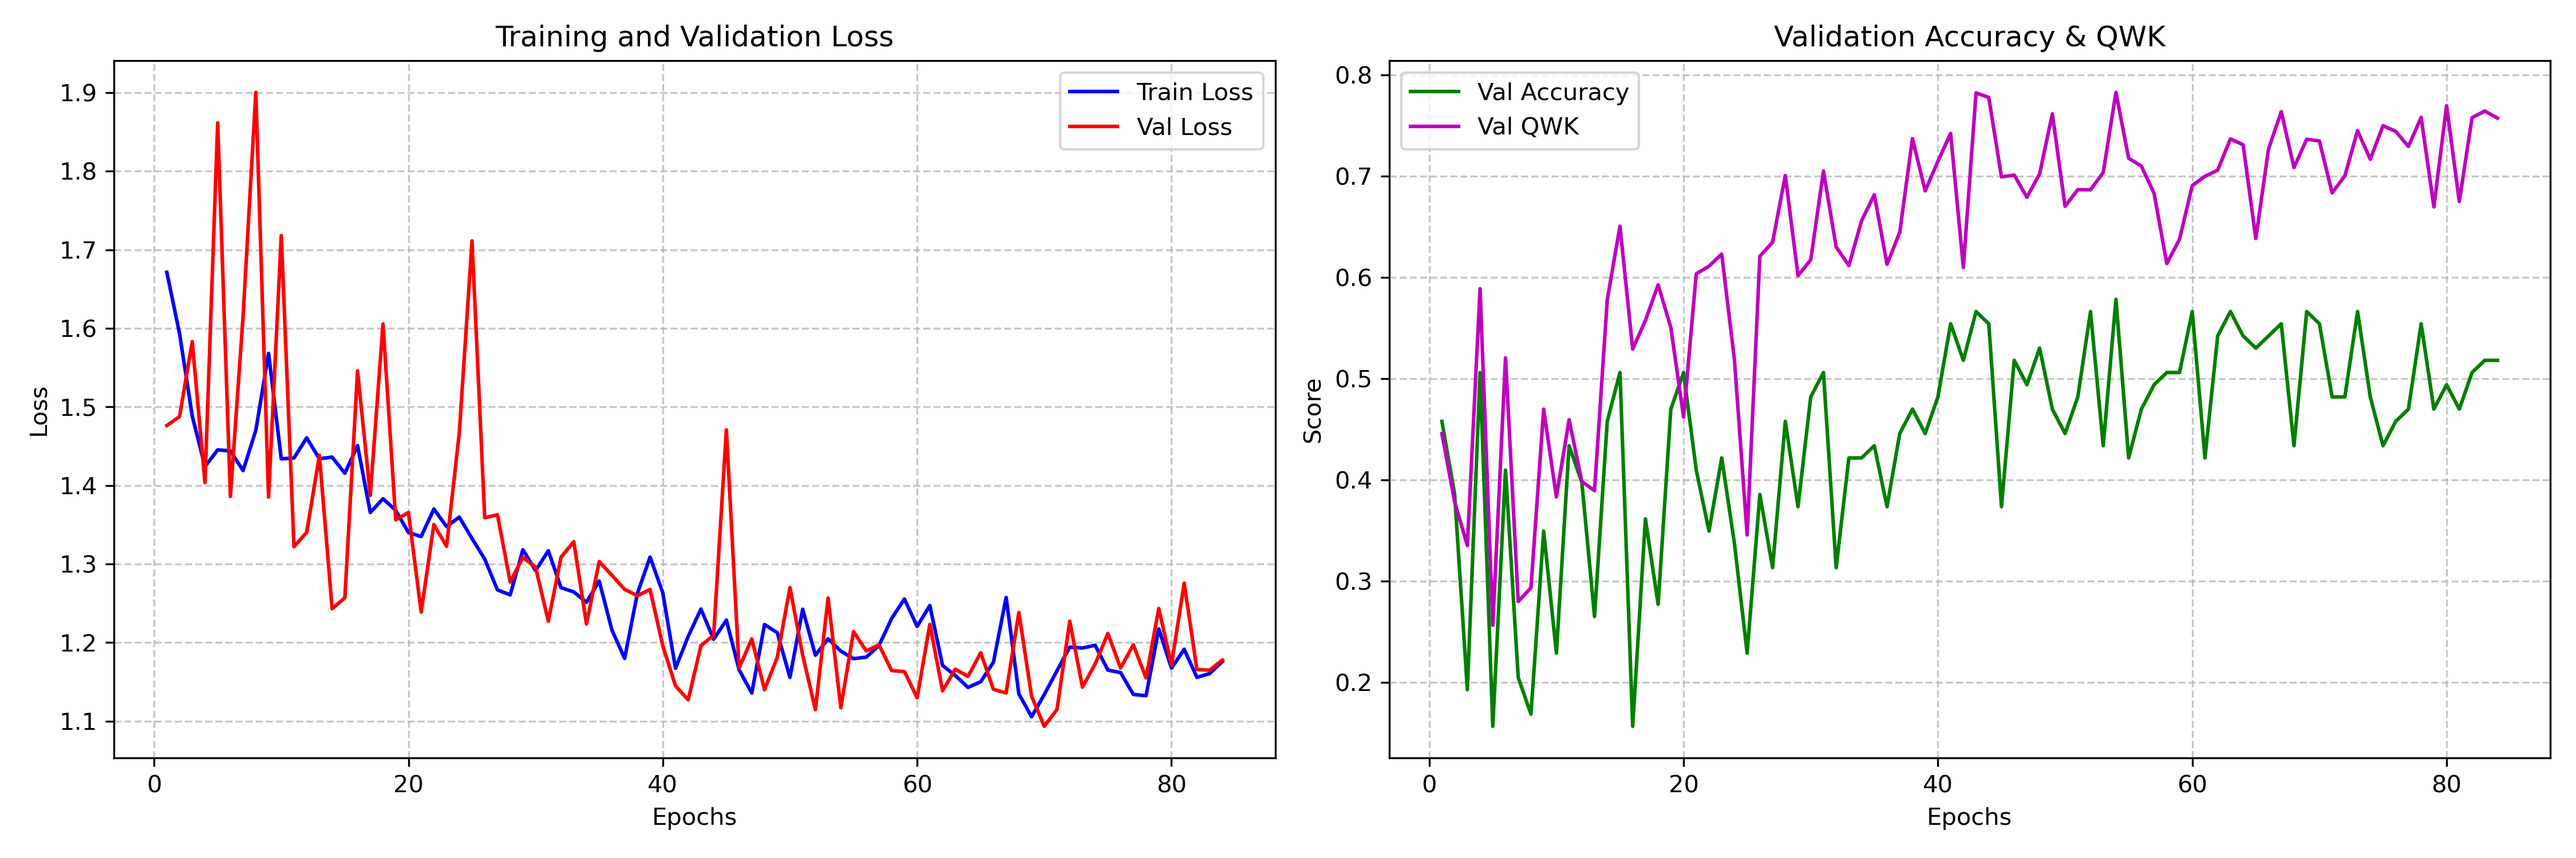
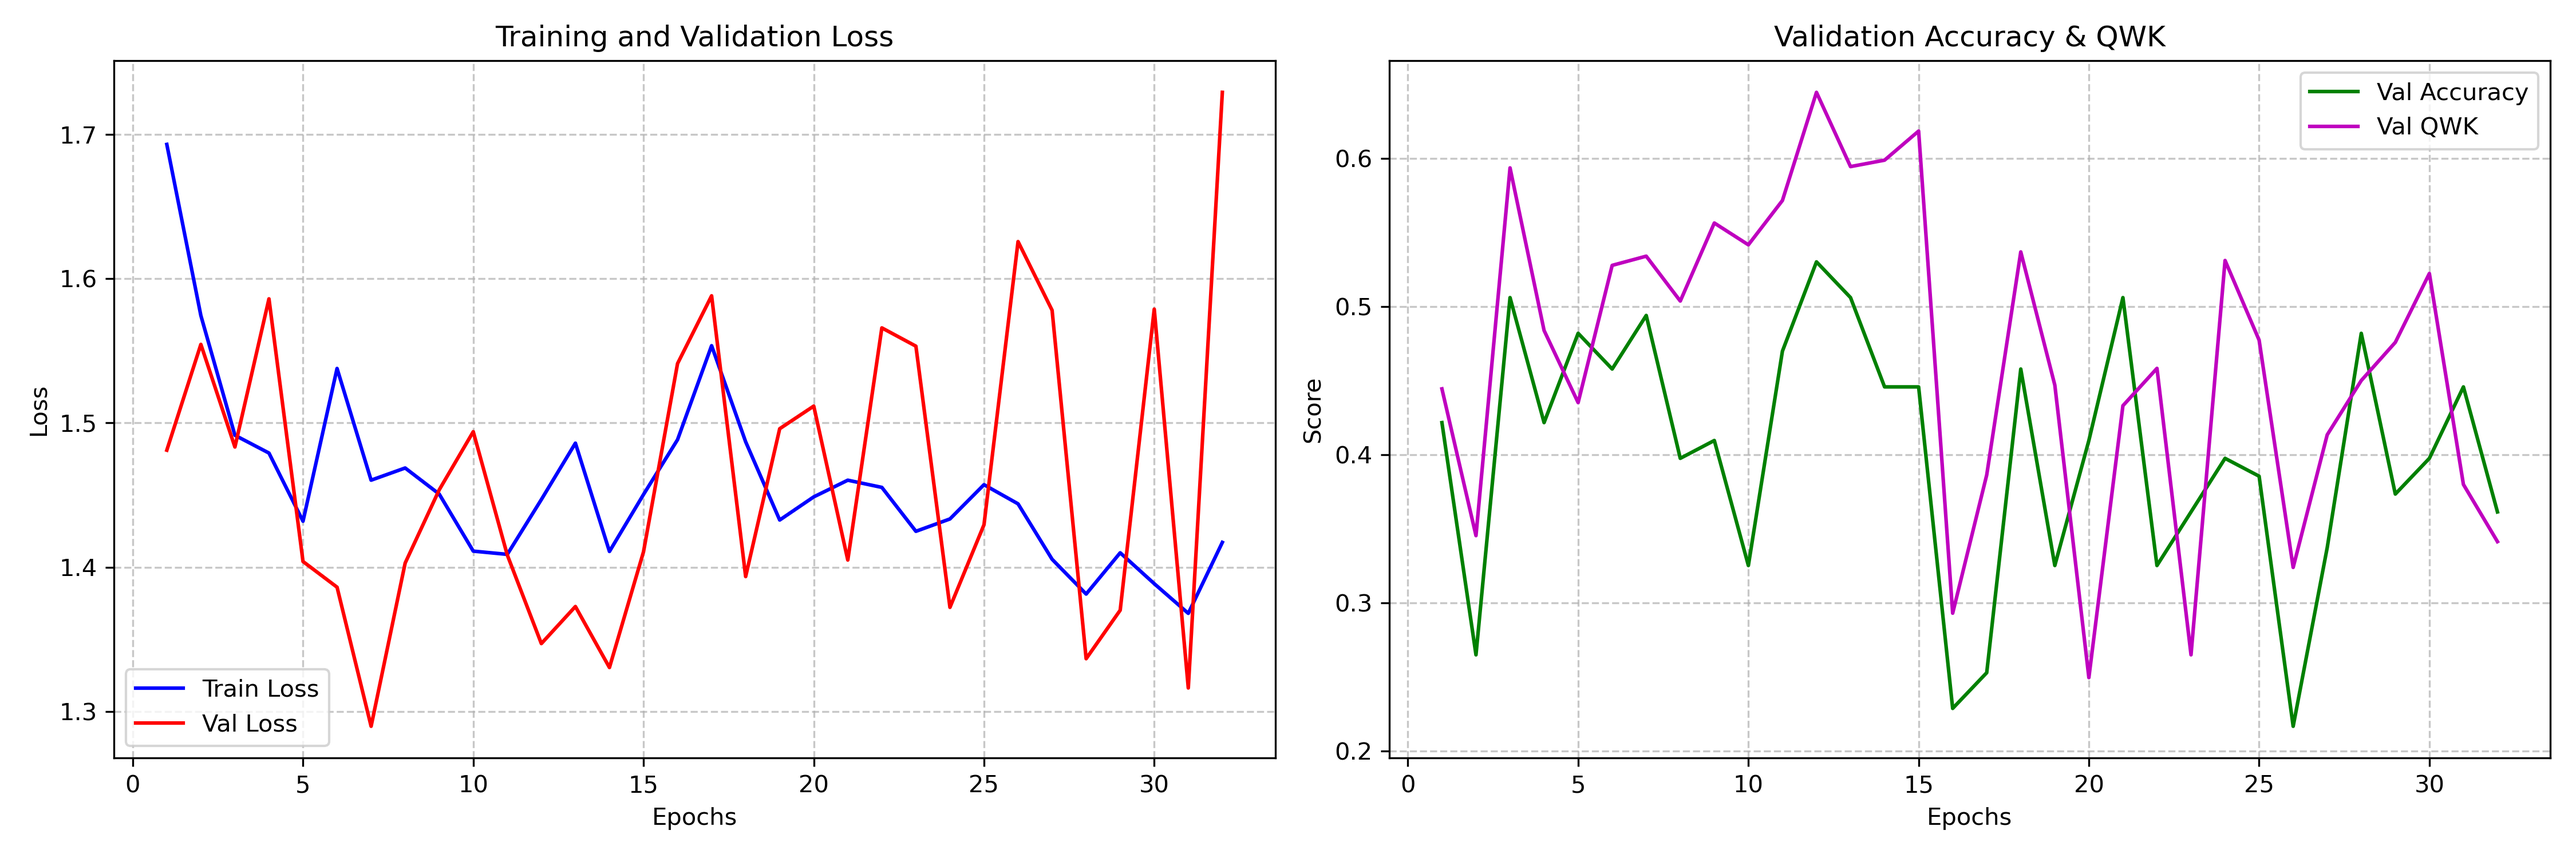
Accuracy: 0.5301 | QWK: 0.6445

diff --git a/classify.py b/classify.py
@@ -20,7 +20,6 @@ import matplotlib.pyplot as plt
 logging.basicConfig(level=logging.INFO, format='%(asctime)s - %(levelname)s - %(message)s')
 logger = logging.getLogger(__name__)
 
-
 def seed_everything(seed=42):
     random.seed(seed)
     os.environ['PYTHONHASHSEED'] = str(seed)
@@ -30,7 +29,6 @@ def seed_everything(seed=42):
     torch.cuda.manual_seed_all(seed)
     torch.backends.cudnn.deterministic = True
     torch.backends.cudnn.benchmark = False
-
 
 # ================= 配置类 =================
 class TrainConfig:
@@ -46,8 +44,7 @@ class TrainConfig:
     lr_backbone = 1e-5
     lr_head = 1e-4
     num_classes = 5
-    patience = 30  # 稍微增加一点耐心
-
+    patience = 20
 
 # ================= 1. 模型架构 =================
 class DeepDRTransformer(nn.Module):
@@ -102,7 +99,6 @@ class DeepDRTransformer(nn.Module):
         fused = torch.cat([x, area_feat], dim=1)
         return self.classifier(fused)
 
-
 # ================= 2. 数据集类 =================
 class DRDataset(Dataset):
     def __init__(self, df, img_dir, mask_dir, transform=None):
@@ -153,8 +149,7 @@ class DRDataset(Dataset):
 
         return img6, mask4, label
 
-
-# ================= 3. 训练与验证核心 =================
+# ================= 3. 训练与验证 =================
 def train_one_epoch(model, loader, optimizer, criterion, scaler, device):
     model.train()
     train_loss = 0
@@ -177,7 +172,6 @@ def train_one_epoch(model, loader, optimizer, criterion, scaler, device):
 
     return train_loss / len(loader)
 
-
 @torch.no_grad()
 def validate_one_epoch(model, loader, criterion, device):
     model.eval()
@@ -199,15 +193,11 @@ def validate_one_epoch(model, loader, criterion, device):
     acc = np.mean(np.array(all_preds) == np.array(all_labels))
     return val_loss / len(loader), acc, qwk
 
-
 # ================= 4. 绘图与评估 =================
 def plot_metrics(cfg, train_losses, val_losses, val_accs, val_qwks):
-    """绘制训练曲线并保存"""
     epochs = range(1, len(train_losses) + 1)
-
     plt.figure(figsize=(15, 5))
 
-    # Loss 曲线
     plt.subplot(1, 2, 1)
     plt.plot(epochs, train_losses, 'b-', label='Train Loss')
     plt.plot(epochs, val_losses, 'r-', label='Val Loss')
@@ -217,7 +207,6 @@ def plot_metrics(cfg, train_losses, val_losses, val_accs, val_qwks):
     plt.legend()
     plt.grid(True, linestyle='--', alpha=0.7)
 
-    # 准确率和 QWK 曲线
     plt.subplot(1, 2, 2)
     plt.plot(epochs, val_accs, 'g-', label='Val Accuracy')
     plt.plot(epochs, val_qwks, 'm-', label='Val QWK')
@@ -232,7 +221,6 @@ def plot_metrics(cfg, train_losses, val_losses, val_accs, val_qwks):
     plt.savefig(save_path, dpi=300)
     plt.close()
     logger.info(f"[*] 训练曲线已保存至: {save_path}")
-
 
 def evaluate_model(cfg, test_loader, model_path):
     logger.info("=" * 50)
@@ -264,7 +252,6 @@ def evaluate_model(cfg, test_loader, model_path):
     logger.info(f"\n混淆矩阵:\n{confusion_matrix(all_labels, all_preds)}")
     logger.info("=" * 50)
 
-
 # ================= 5. 主程序 =================
 def main():
     seed_everything(42)
@@ -277,12 +264,11 @@ def main():
     split = int(0.8 * len(df))
     train_df, val_df = df[:split], df[split:]
 
-    # 稍微调小缩放比例，防止微小病灶被裁掉
+    # 【关键回调】去掉裁剪，只用 Resize 和安全的色彩/翻转增强，保证全局病灶不丢失
     train_tsfm = A.Compose([
-        A.RandomResizedCrop(size=(cfg.img_size, cfg.img_size), scale=(0.9, 1.0)),
+        A.Resize(height=cfg.img_size, width=cfg.img_size),
         A.HorizontalFlip(p=0.5),
         A.VerticalFlip(p=0.5),
-        A.ShiftScaleRotate(shift_limit=0.05, scale_limit=0.05, rotate_limit=15, p=0.5),
         A.RandomBrightnessContrast(p=0.2),
         A.Normalize(),
         ToTensorV2()
@@ -297,24 +283,14 @@ def main():
     train_ds = DRDataset(train_df, cfg.train_img_dir, cfg.train_mask_dir, train_tsfm)
     val_ds = DRDataset(val_df, cfg.train_img_dir, cfg.train_mask_dir, val_tsfm)
 
-    # 恢复正常的 DataLoader（移除会引发崩溃的 Sampler，恢复 shuffle）
+    # 恢复无脑的随机打乱
     train_loader = DataLoader(train_ds, batch_size=cfg.batch_size, shuffle=True, num_workers=4, pin_memory=True)
     val_loader = DataLoader(val_ds, batch_size=cfg.batch_size, shuffle=False, num_workers=4, pin_memory=True)
 
     model = DeepDRTransformer(cfg.num_classes).to(cfg.device)
 
-    # --- 核心改动：温和的类别权重损失 ---
-    train_labels = train_df['Retinopathy grade'].values
-    class_counts = np.bincount(train_labels, minlength=cfg.num_classes)
-    class_counts = np.where(class_counts == 0, 1, class_counts)
-
-    # 使用 1 / sqrt(count) 是一种更平滑的加权方式，既能照顾小类，又不会矫枉过正
-    weights = 1.0 / np.sqrt(class_counts)
-    weights = weights / np.sum(weights) * cfg.num_classes  # 归一化
-    class_weights_tensor = torch.FloatTensor(weights).to(cfg.device)
-
-    logger.info(f"[*] 使用平滑类别权重: {class_weights_tensor.cpu().numpy()}")
-    criterion = nn.CrossEntropyLoss(weight=class_weights_tensor)  # 移除 label_smoothing
+    # 【关键回调】移除权重，找回原本有用的 Label Smoothing
+    criterion = nn.CrossEntropyLoss(label_smoothing=0.1)
 
     optimizer = optim.AdamW([
         {'params': model.img_backbone.parameters(), 'lr': cfg.lr_backbone},
@@ -328,7 +304,6 @@ def main():
     best_qwk = -1
     epochs_no_improve = 0
 
-    # 记录曲线用的列表
     history_train_loss, history_val_loss = [], []
     history_val_acc, history_val_qwk = [], []
 
@@ -339,7 +314,6 @@ def main():
 
         scheduler.step()
 
-        # 记录数据用于画图
         history_train_loss.append(train_loss)
         history_val_loss.append(val_loss)
         history_val_acc.append(val_acc)
@@ -362,12 +336,8 @@ def main():
 
         torch.cuda.empty_cache()
 
-    # 绘制并保存曲线
     plot_metrics(cfg, history_train_loss, history_val_loss, history_val_acc, history_val_qwk)
-
-    # 最终评估
     evaluate_model(cfg, val_loader, best_model_path)
-
 
 if __name__ == "__main__":
     main()
